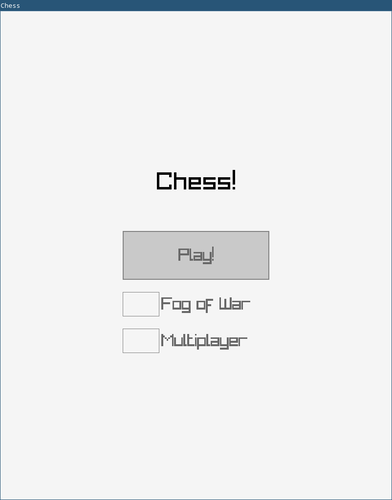
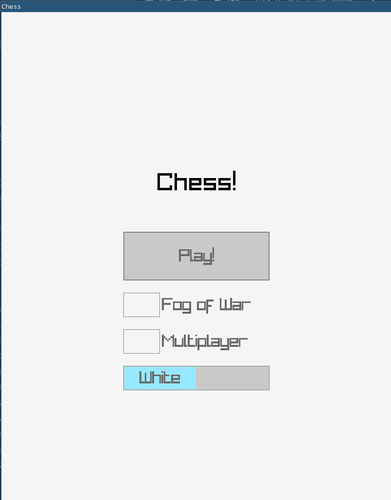
More complete singe player mode
- Split update into singleplayer and multiplayer modes.
- Implement player turns for singeplayer.
- Show player toggle only when multiplayer mode is clicked.
- Change loading screenshot.

Changed region(s): [[0.0, 0.0, 1.0, 1.0], [0.3069, 0.45, 0.7059, 0.78], [0.399, 0.33, 0.6138, 0.39]]

diff --git a/src/playscreen.c b/src/playscreen.c
@@ -1,16 +1,19 @@
 #include "playscreen.h"
 
 #include <stddef.h>
+#include "stdio.h"
 
 #include "raymath.h"
 
 #include "board.h"
+#include "loadingscreen.h"
 
 // From main.c
 extern const int screenWidth;
 extern const int screenHeight;
 extern enum GameState state;
 extern const Color bgColor;
+extern int multiplayerMode;
 
 Texture2D spriteTexture = {0};
 const int cellSize = 80;
@@ -55,12 +58,12 @@ void InitPlayScreen(Player player)
 	sourceCell = NULL;
 }
 
-void UpdatePlayScreen()
+static void SinglePlayerUpdatePlayScreen()
 {
 	if (!cellSelected && IsMouseButtonPressed(MOUSE_BUTTON_LEFT)) {
 		Vector2 mousePos = GetMousePosition();
 		sourceCell = findPointCell(&board, mousePos);
-		if (sourceCell->player == PLAYER_NONE || sourceCell->piece == PIECE_NONE) {
+		if (sourceCell->player != board.player || sourceCell->piece == PIECE_NONE) {
 			sourceCell = NULL;
 		}
 		if (sourceCell) {
@@ -70,10 +73,37 @@ void UpdatePlayScreen()
 		Vector2 mousePos = GetMousePosition();
 	    Cell *targetCell = findPointCell(&board, mousePos);
 
+
+		// cancel move
+		if (sourceCell == targetCell) {
+			cellSelected = false;
+			sourceCell = NULL;
+			return;
+		}
+
+		// not allowed to move to same color
+		if (sourceCell->player == targetCell->player) {
+			return;
+		}
+
 		MovePiece(sourceCell, targetCell);
+		board.player = otherPlayer(board.player);
 
 		cellSelected = false;
 		sourceCell = NULL;
+	}
+}
+
+static void MultiPlayerUpdatePlayScreen()
+{
+}
+
+void UpdatePlayScreen()
+{
+	if (multiplayerMode == 0) {
+		SinglePlayerUpdatePlayScreen();
+	} else {
+		MultiPlayerUpdatePlayScreen();
 	}
 }
 
@@ -84,6 +114,16 @@ void DrawPlayScreen()
 	const Vector2 screenSize = {screenWidth, screenHeight};
 	const Vector2 cellSizeV = {cellSize, cellSize};
 	const Vector2 offset = Vector2Scale(Vector2Subtract(screenSize, Vector2Scale(cellSizeV, numCells)), 0.5f);
+
+	// Draw curent player
+	char playerText[16];
+	if (board.player == PLAYER_WHITE) {
+		snprintf(playerText, 5+1, "%s", "White");
+	} else {
+		snprintf(playerText, 5+1, "%s", "Black");
+	}
+	sprintf(playerText+5, "'s Turn");
+	DrawText(playerText, offset.x, offset.y-cellSize, 30, BLACK);
 
 	// Draw Border
 	DrawRectangleLinesEx((Rectangle){offset.x - borderThickness,offset.y - borderThickness,

diff --git a/src/loadingscreen.c b/src/loadingscreen.c
@@ -14,20 +14,23 @@ extern const int screenWidth;
 extern const int screenHeight;
 extern enum GameState state;
 extern const Color bgColor;
+extern int multiplayerMode;
+
+int multiplayerMode = 0;
 
 static const int buttonWidth = 300;
 static const int buttonHeight = 100;
 static bool play = false;
 static bool fogOfWar = false;
-static bool multiplayer = false;
 static int playerToggle = 0;
 
 void InitLoadingScreen()
 {
 	GuiSetStyle(DEFAULT, TEXT_SIZE, 36);
 	play = false;
-	bool fogOfWar = false;
-	bool multiplayer = false;
+    fogOfWar = false;
+    multiplayerMode = 0;
+	playerToggle = 0;
 }
 
 
@@ -51,7 +54,11 @@ void DrawLoadingScreen()
 	if (GuiButton((Rectangle){(screenWidth-buttonWidth)/2, (screenHeight-buttonHeight)/2, buttonWidth, buttonHeight}, "Play!"))
 	    play = true;
 	GuiCheckBox((Rectangle){(screenWidth-buttonWidth)/2, (screenHeight+buttonWidth/2)/2, buttonWidth/4, buttonHeight/2}, "Fog of War", &fogOfWar);
-	GuiCheckBox((Rectangle){(screenWidth-buttonWidth)/2, (screenHeight+buttonWidth)/2, buttonWidth/4, buttonHeight/2}, "Multiplayer", &multiplayer);
-	GuiToggleSlider((Rectangle){(screenWidth-buttonWidth)/2, (screenHeight+3*buttonWidth/2)/2, buttonWidth, buttonHeight/2}, "White;Black", &playerToggle);
+	GuiToggleSlider((Rectangle){(screenWidth-buttonWidth)/2, (screenHeight+buttonWidth)/2, buttonWidth, buttonHeight/2}, "Local;P2P", &multiplayerMode);
+	if (multiplayerMode == 1) {
+		GuiToggleSlider((Rectangle){(screenWidth-buttonWidth)/2, (screenHeight+3*buttonWidth/2)/2, buttonWidth, buttonHeight/2}, "White;Black", &playerToggle);
+	} else {
+		playerToggle = 0;
+	}
 }
 

diff --git a/src/board.c b/src/board.c
@@ -98,5 +98,14 @@ void RemovePiece(Cell *cell)
 void MovePiece(Cell *source, Cell *target)
 {
 	PlacePiece(target, source->player, source->piece);
-	RemovePiece(source);
+	if (source != target)
+		RemovePiece(source);
+}
+
+Player otherPlayer(Player player)
+{
+	switch (player) {
+	case PLAYER_WHITE: return PLAYER_BLACK;
+	case PLAYER_BLACK: return PLAYER_WHITE;
+	}
 }

diff --git a/src/loadingscreen.h b/src/loadingscreen.h
@@ -3,10 +3,6 @@
 
 #include "raylib.h"
 
-/* extern bool play; */
-/* extern bool fogOfWar; */
-/* extern bool multiplayer; */
-
 void InitLoadingScreen();
 void UpdateLoadingScreen();
 void DrawLoadingScreen();

diff --git a/src/board.h b/src/board.h
@@ -40,4 +40,6 @@ void DrawPiece(const Cell *cell);
 
 Cell *findPointCell(Board *board, Vector2 point);
 
+Player otherPlayer(Player player);
+
 #endif // BOARD_H_
